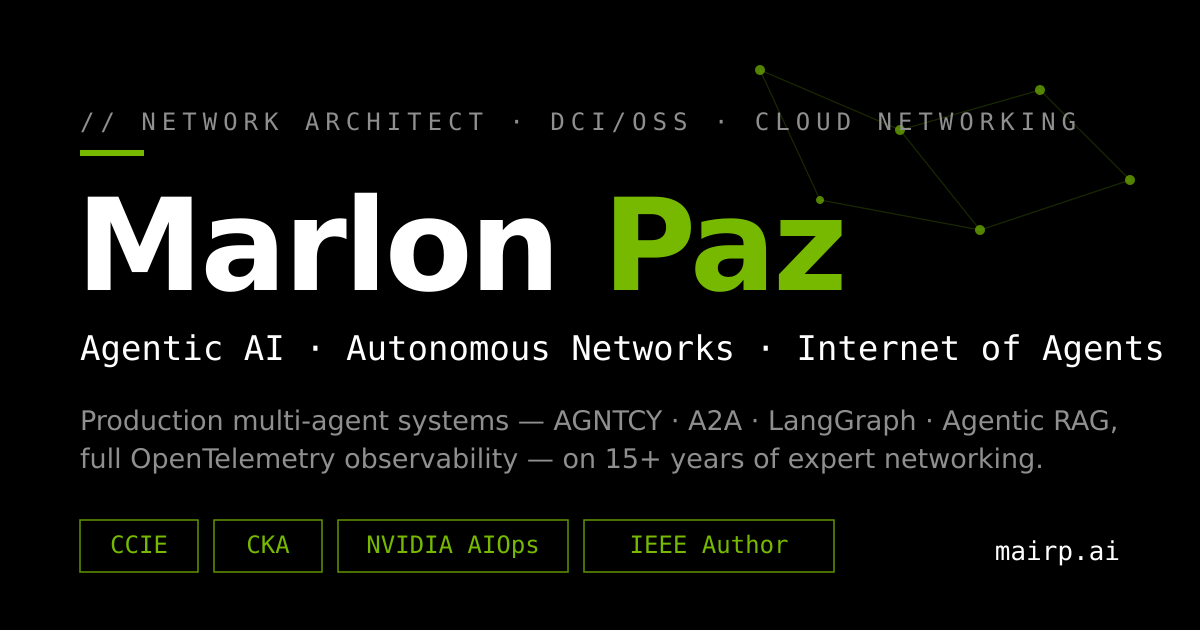
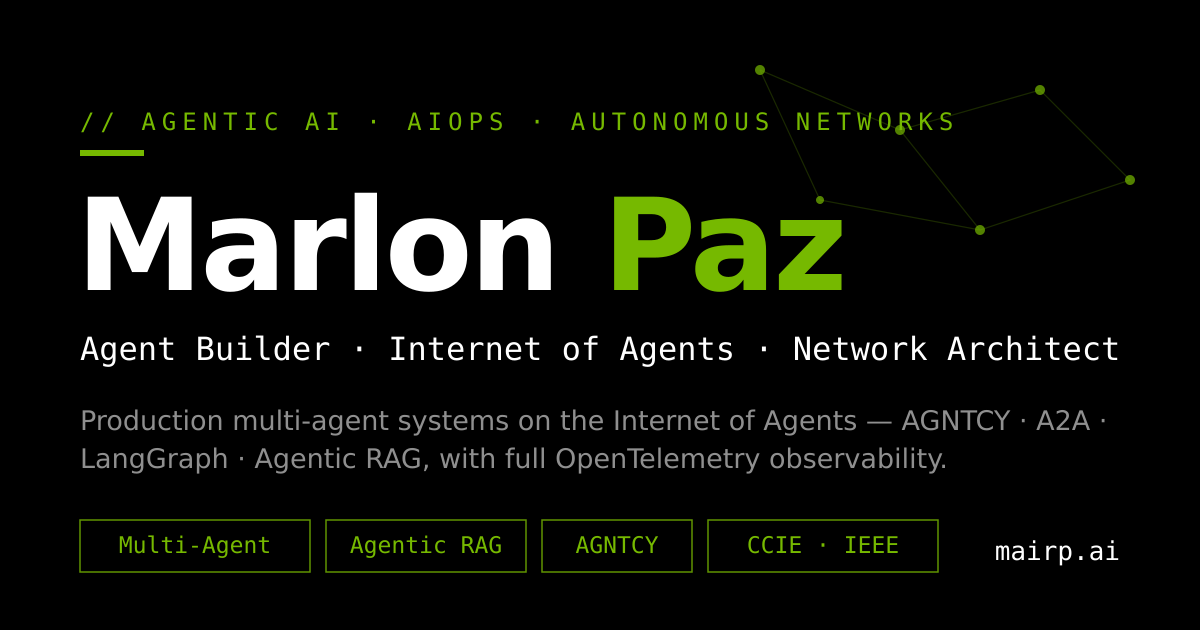
refactor(portal): Publications before Open Source; drop redundant RAG chip; OG image leads with Agentic AI
- Move Publications section above Open Source (renumber 04/05)
- Remove redundant 'Retrieval-Augmented Generation' skill chip (kept 'Agentic RAG')
- Re-render OG share image to lead with Agentic AI positioning (capability chips)

diff --git a/index.html b/index.html
@@ -457,8 +457,8 @@
           <span class="chip">AI Agents</span><span class="chip">Agentic Systems</span><span class="chip">Agntcy</span>
           <span class="chip">A2A</span><span class="chip">MCP</span><span class="chip">Internet of Agents</span>
           <span class="chip">LangGraph</span><span class="chip">LangChain</span><span class="chip">LlamaIndex</span>
-          <span class="chip">RAG</span><span class="chip">Agentic RAG</span><span class="chip">Retrieval-Augmented Generation</span>
-          <span class="chip">Vector Search</span><span class="chip">Embeddings</span><span class="chip">Semantic Memory</span>
+          <span class="chip">RAG</span><span class="chip">Agentic RAG</span><span class="chip">Vector Search</span>
+          <span class="chip">Embeddings</span><span class="chip">Semantic Memory</span>
           <span class="chip">Claude</span><span class="chip">LiteLLM</span><span class="chip">Multi-Agent Systems</span>
           <span class="chip">GPU Clusters</span><span class="chip">LLM Infrastructure</span><span class="chip">SLIM</span>
           <span class="chip">NATS</span><span class="chip">Autonomous Networks</span>
@@ -570,9 +570,26 @@
     </div>
   </section>
 
+  <!-- PUBLICATIONS -->
+  <section>
+    <div class="sec-head rv"><span class="sec-no">04</span><h2>Publications</h2><span class="tag">co-authored · peer-reviewed</span></div>
+    <div class="repos">
+      <a class="repo rv" href="https://ieeexplore.ieee.org/document/11080420/" target="_blank" rel="noopener">
+        <div class="rn"><svg viewBox="0 0 24 24"><path d="M4 19V5m0 14h16M8 16l3-5 3 3 4-7"/></svg>Decentralized &amp; Dynamic Zero-Touch Provisioning of Leaf-Spine EVPN Data Centers</div>
+        <div class="rd">Autonomous agents on each router provision the leaf-spine EVPN underlay and overlay with no manual intervention — inferring router roles from link-state topology and self-healing on link/router failures.</div>
+        <div class="rf"><span><b>IEEE</b></span><span>Leaf-Spine EVPN</span><span>Agentic ZTP</span></div>
+      </a>
+      <a class="repo rv" href="https://link.springer.com/article/10.1186/s13677-025-00814-0" target="_blank" rel="noopener">
+        <div class="rn"><svg viewBox="0 0 24 24"><circle cx="12" cy="12" r="3"/><circle cx="5" cy="6" r="2"/><circle cx="19" cy="6" r="2"/><circle cx="12" cy="20" r="2"/><path d="M7 7l3 3m7-3l-3 3m-2 6v-3"/></svg>Kubernetes-Aware Load Balancing for Leaf-Spine EVPN Data Centers</div>
+        <div class="rd">Distributed agents at leaf routers feed live Kubernetes pod data into the fabric, dynamically tuning ECMP weights via EVPN / BGP extended communities so routing aligns with pod placement. Journal of Cloud Computing.</div>
+        <div class="rf"><span><b>Springer</b></span><span>Kubernetes</span><span>EVPN / ECMP</span></div>
+      </a>
+    </div>
+  </section>
+
   <!-- OPEN SOURCE -->
   <section>
-    <div class="sec-head rv"><span class="sec-no">04</span><h2>Open Source</h2><span class="tag">github.com/mairp</span></div>
+    <div class="sec-head rv"><span class="sec-no">05</span><h2>Open Source</h2><span class="tag">github.com/mairp</span></div>
     <div class="repos">
       <!-- REPOS:START — generated by /root/portfolio-sync, do not edit by hand -->
       <a class="repo rv" href="https://github.com/mairp/qmd-memory-stack" target="_blank" rel="noopener">
@@ -666,23 +683,6 @@
         <div class="rf"><span><span class="lang" style="background:#89e051"></span>Shell</span><span><b>★</b> 1</span><span><b>⑂</b> fork</span></div>
       </a>
       <!-- REPOS:END -->
-    </div>
-  </section>
-
-  <!-- PUBLICATIONS -->
-  <section>
-    <div class="sec-head rv"><span class="sec-no">05</span><h2>Publications</h2><span class="tag">co-authored · peer-reviewed</span></div>
-    <div class="repos">
-      <a class="repo rv" href="https://ieeexplore.ieee.org/document/11080420/" target="_blank" rel="noopener">
-        <div class="rn"><svg viewBox="0 0 24 24"><path d="M4 19V5m0 14h16M8 16l3-5 3 3 4-7"/></svg>Decentralized &amp; Dynamic Zero-Touch Provisioning of Leaf-Spine EVPN Data Centers</div>
-        <div class="rd">Autonomous agents on each router provision the leaf-spine EVPN underlay and overlay with no manual intervention — inferring router roles from link-state topology and self-healing on link/router failures.</div>
-        <div class="rf"><span><b>IEEE</b></span><span>Leaf-Spine EVPN</span><span>Agentic ZTP</span></div>
-      </a>
-      <a class="repo rv" href="https://link.springer.com/article/10.1186/s13677-025-00814-0" target="_blank" rel="noopener">
-        <div class="rn"><svg viewBox="0 0 24 24"><circle cx="12" cy="12" r="3"/><circle cx="5" cy="6" r="2"/><circle cx="19" cy="6" r="2"/><circle cx="12" cy="20" r="2"/><path d="M7 7l3 3m7-3l-3 3m-2 6v-3"/></svg>Kubernetes-Aware Load Balancing for Leaf-Spine EVPN Data Centers</div>
-        <div class="rd">Distributed agents at leaf routers feed live Kubernetes pod data into the fabric, dynamically tuning ECMP weights via EVPN / BGP extended communities so routing aligns with pod placement. Journal of Cloud Computing.</div>
-        <div class="rf"><span><b>Springer</b></span><span>Kubernetes</span><span>EVPN / ECMP</span></div>
-      </a>
     </div>
   </section>
 
